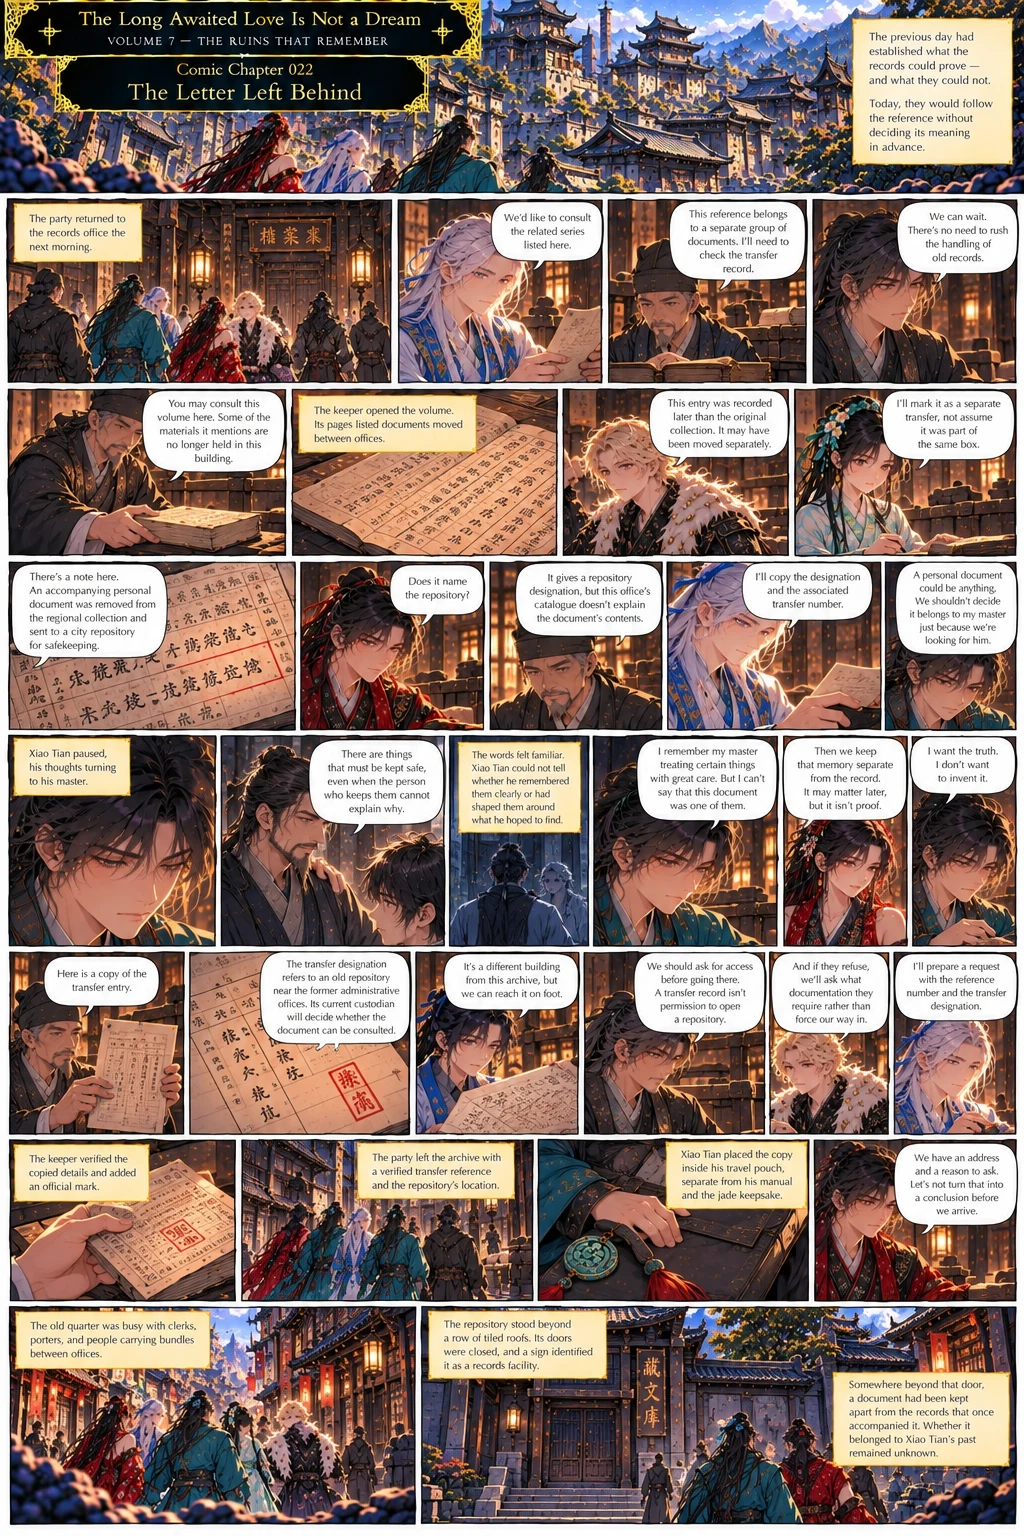
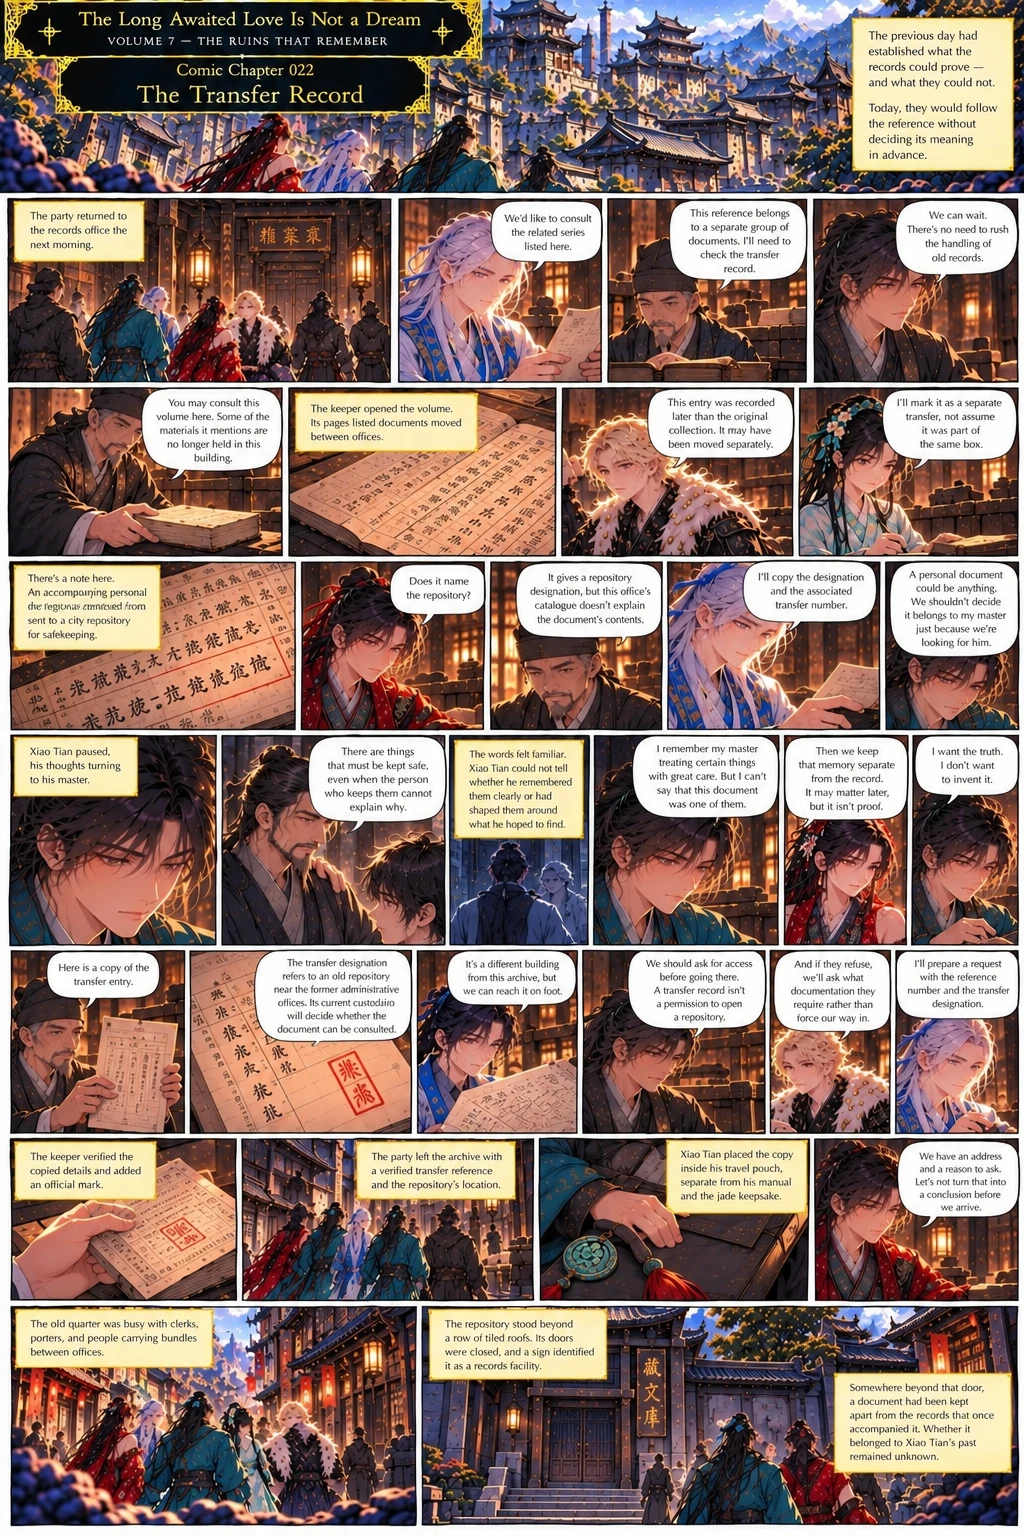
Volume 7: regenerated comic 020, renamed 022 (The Transfer Record) and 023 (The Letter Left Behind)
Claude-Session: https://claude.ai/code/session_01XEYzSJa6dBuS74MycM45Hs

diff --git a/scripts/chapters.js b/scripts/chapters.js
@@ -926,18 +926,18 @@ const CHAPTER_DESIGN = {
   events:['The records office and its rule: register first, consult tomorrow.','An inn for the night; Hoko jokes about broken windows.','Xiao Tian: "I don\'t want to turn every ordinary thing into a sign."','Moonlight over the quiet records building.'],
   chars:['xiyu','dongyue','cangyuan','xining','xiaotian','yaxing','hoko','yanwatcher'], intro:[], unlocks:['Story: a night in the city']},
  257:{title:'The Hidden Address', book:'—', loc:'The lower storage rooms of the records office',
-  sum:'VOLUME 7, COMIC 020. Morning brought no new answers; it brought permission to begin looking. The party arrives at the old administrative quarter shortly after sunrise. The clerk: "Your request has been recorded. Follow me, and please leave the documents in their original order." In the lower storage rooms Xiao Yan: "The arrangement is orderly, but it will take time to understand." Cangyuan: "We work from the inventory first. No moving bundles without recording where they came from." The next morning they begin the consultation. Hoko: "These are tax records. That group concerns river boundaries. The road registers should be farther along." Dongyue: "I\'ll keep a list of what we\'ve examined so we don\'t repeat the same work." Xiao Yan: "This section matches the description from the city archives. It\'s heavier than it looks. The contents should stay flat while we sort them." Inside are several old road registers, folded maps and lists of boundary revisions; the past had not been preserved as a single story but divided into boxes, labels and years of routine paperwork. Cangyuan: "This one records changes to the mountain districts. It may include names that no longer appear on modern maps. Careful. The paper is brittle. We shouldn\'t force the pages flat." Then: "Jinghe." Cangyuan: "This confirms that Jinghe was recorded in the regional register. It doesn\'t tell us whether it was the destination your master intended." Xiao Tian: "At least we know the name existed. That\'s enough for now." The entry is incomplete: a cross-reference to a document number and a storage designation remain legible. Xiao Yan: "We\'ve found a real record, not an answer. That distinction matters." "I know. I\'d rather have one reliable step than ten guesses." The records keeper goes to locate the referenced series while the party waits at the table. For the first time, Jinghe was more than a phrase carried out of a dream: it was a name preserved in the records. What it meant to Xiao Tian\'s past remained unknown.',
-  events:['Permission to begin looking.','Jinghe appears in an old regional register.','An incomplete cross-reference to another series.','"A real record, not an answer."'],
-  chars:['xiyu','dongyue','cangyuan','xining','xiaotian','yaxing','hoko','yanwatcher'], intro:[], unlocks:['Story: Jinghe is a real name in the old register']},
+  sum:'VOLUME 7, COMIC 020 (regenerated). The next morning the party begins examining the regional records; they need to find the address, route or destination that may lie behind the estate\'s missing pages. At first light they return to the archive: the lower records room is opened and the materials prepared. "These are the regional road registers, boundary revisions, and transport records from that period. Please handle them with care. Some of the pages are very old." Cangyuan: "Let\'s compare the old routes with the surviving boundary records. We should preserve the order of each entry." Dongyue: "I\'ll record the references so we can return to anything that needs further checking." Xiyu: "We need to look for transport requests, dispatched documents, and any records of special consignments." Hoko: "The roads may have changed over time. We should check older boundary maps to understand the context." Xiao Yan: "And compare the place names. Some may have used different names in older records." They begin with the road registers. "Here. This section matches the time period." There was an entry for Jinghe: it was recorded as a town along the western route, an important stop for trade and transport. Cangyuan: "The spelling is consistent with other entries from this period." Xiao Tian: "But this only confirms that Jinghe existed as a place name. It doesn\'t tell us whether it was the destination my master intended." The records keeper: "Place names were often reused, and routes changed over the years. This entry only shows that a record related to Jinghe was made." They compare the entry with older boundary maps; the location matches an important river route connecting several mountain regions. Xining notes there are also records of transport convoys and official dispatches passing through Jinghe. Hoko: "Some of them were administrative, not private requests. We can\'t assume it refers to the same matter yet." Cangyuan: "We should check the dispatch ledger next. It may record where documents or copies were sent from this region." Xiyu: "Agreed. This is a lead, but not the answer. We need more records before we can conclude anything." They record the related references: the Dispatch Ledger (Western Route), administrative correspondence, river transport records and boundary revisions. "Then this is our next step. We follow the dispatch ledger and see where the copied record was sent." Jinghe was only a name on paper for now, but it brought them closer to the truth.',
+  events:['The regional registers, opened at first light.','Jinghe: a town on the western route.','"It doesn\'t tell us whether it was the destination my master intended."','Next step: the dispatch ledger.'],
+  chars:['xiyu','dongyue','cangyuan','xining','xiaotian','yaxing','hoko','yanwatcher'], intro:[], unlocks:['Story: Jinghe, a town on the western route']},
  258:{title:'The Master\'s Birthday', book:'—', loc:'The records office and its courtyard',
   sum:'VOLUME 7, COMIC 021. A reference could lead to another record; it could not promise what that record would contain. The party waits at the long reading table while the records keeper searches the lower shelves. Cangyuan: "We should keep the original wording separate from our interpretations." Xiao Yan: "That will save us from mistaking an assumption for a fact." The keeper finds the referenced series; some pages are missing, but the volume can be consulted. Its pages list transfers, administrative changes and records moved between regional offices: "Transfers, boundary revisions, retired offices... nothing here is a personal account." Xiao Tian remembers the command more clearly than the place it concerned: "There is something I need you to retrieve. You must go alone." The place and the date remain incomplete: "I remember being told to go. I can\'t remember the exact date or what the place was called." Xiyu: "Then we shouldn\'t ask your memory to supply what it cannot. We can work with what you know." Cangyuan: "The register gives us historical context. Your memory gives us a separate lead. They may connect, but we haven\'t proved that yet." During a short break in the courtyard Dongyue asks about his master\'s birthday. "I remember that we marked it. I\'m not sure I remember the date correctly." "Then we leave it there until you\'re certain." Back at the table the volume is consulted: Jinghe appears in an old regional register, with a cross-reference to another series; its purpose is not established. "Good. If the evidence changes, we can revise our conclusions without losing track of what was actually written." The keeper: "If you need to consult another volume, submit the next reference through the front desk." That evening: "We have more to do. At least now I know what we haven\'t established." The master\'s birthday remained a fragment of memory, not a key. The records had offered context, not certainty; the next step would have to be earned.',
   events:['A volume with missing pages and no personal account.','"I remember being told to go. I can\'t remember the exact date."','His master\'s birthday: a fragment, not a key.','Dongyue: "If the evidence changes, we can revise our conclusions."'],
   chars:['xiyu','dongyue','cangyuan','xining','xiaotian','yaxing','hoko','yanwatcher'], intro:[], unlocks:['Story: a memory of his master\'s birthday']},
- 259:{title:'The Letter Left Behind', book:'—', loc:'The records office and a city repository',
+ 259:{title:'The Transfer Record', book:'—', loc:'The records office and a city repository',
   sum:'VOLUME 7, COMIC 022. The previous day had established what the records could prove, and what they could not; today they would follow the reference without deciding its meaning in advance. The party returns to the records office. Cangyuan asks to consult the related series. The keeper opens the volume; some materials it mentions are no longer held in this building. Hoko: "This entry was recorded later than the original collection. It may have been moved separately." Dongyue: "I\'ll mark it as a separate transfer, not assume it was part of the same box." A note records that an accompanying personal document was removed from the regional collection and sent to a city repository for safekeeping. "Does it name the repository?" "It gives a repository designation, but this office\'s catalogue doesn\'t explain the document\'s contents." Xiao Yan: "A personal document could be anything. We shouldn\'t decide it belongs to my master just because we\'re looking for him." Xiao Tian recalls his master: "There are things that must be kept safe, even when the person who keeps them cannot explain why." The words feel familiar, but he cannot tell whether he remembered them clearly or shaped them around what he hoped to find. "I remember my master treating certain things with great care. But I can\'t say that this document was one of them." Cangyuan: "Then we keep that memory separate from the record. It may matter later, but it isn\'t proof." "I want the truth. I don\'t want to invent it." The keeper provides a copy of the transfer entry and an official mark; the designation refers to an old repository near the former administrative offices, whose custodian will decide whether the document can be consulted. Xiao Yan: "A transfer record isn\'t permission to open a repository." Hoko: "And if they refuse, we\'ll ask what documentation they require rather than force our way in." Xiao Tian places the copy in his travel pouch, separate from his manual and the jade keepsake. The repository stands beyond a row of tiled roofs, its doors closed, a sign identifying it as a records facility. Somewhere beyond that door, a document had been kept apart from the records that once accompanied it. Whether it belonged to Xiao Tian\'s past remained unknown.',
   events:['A personal document sent to a city repository.','"I want the truth. I don\'t want to invent it."','The copy of the transfer entry in his travel pouch.','The repository door, still closed.'],
   chars:['xiyu','dongyue','cangyuan','xining','xiaotian','yaxing','hoko','yanwatcher'], intro:[], unlocks:['Story: the repository in the old quarter']},
- 260:{title:'The Secret He Died to Keep', book:'—', loc:'The records repository',
+ 260:{title:'The Letter Left Behind', book:'—', loc:'The records repository',
   sum:'VOLUME 7, COMIC 023. The document had been separated from the records that once accompanied it; before they could learn why, they had to establish what had actually survived. The party arrives at the repository and the custodian confirms that a personal document was transferred there. Cangyuan: "We understand. We won\'t ask you to bypass the repository\'s rules." The custodian: "This is the document associated with that transfer number. The accompanying register identifies it as a private letter. The seal is old, but the custody record is intact." Xiao Tian: "That hand... I\'ve seen it before." "Can you identify it with confidence?" "I can\'t be certain from this alone. But the strokes resemble my master\'s writing." "There is no record here of its contents." Xiao Tian had spent months trying to recover the past; now it rested within reach, and he feared what it might ask of him. Xining: "You don\'t have to read it all at once." "If it is his letter, I need to hear what he wanted to say." The custodian records the opening in the ledger and carefully releases the old fastening. "This is his writing." The letter: "If this reaches you after the estate has fallen silent, do not mistake silence for proof that everything has been lost. What they sought was not valuable because of its price. It was dangerous because of what it could prove. Do not pursue the first face you remember. Find the records of the search first. A face may deceive you; a record can be compared." Some lines are damaged by age and the identity of the person or group involved is not named. A brief, incomplete memory flashes through Xiao Tian\'s mind: a masked figure with a headband in the dark; it is not yet enough to name a person. Dongyue: "So the damage wasn\'t random." Xiyu: "It supports what we saw at the estate. It doesn\'t tell us who gave the order." Xiao Tian: "He wanted me to find out what they were searching for before I chased the people who did it." Cangyuan: "Perhaps he feared the letter would be found. Or perhaps he thought you would understand more when you were ready. We can\'t know which." Hoko: "The letter gives us a method: find records of the search, compare dates, and look for people who had access." Xiao Yan: "We can start with the estate\'s missing inventory and the older district records. We shouldn\'t assume the same person handled every part of it." The original stays in the repository unless permission is obtained for another consultation. "Thank you. Whatever comes next, this gives me a reason to keep looking." Xiao Tian keeps the authorised copy of the relevant passages in a separate pouch, away from his manual and his jade keepsake. His master had left him neither a name to strike nor an easy answer. He had left him a way to begin.',
   events:['His master\'s seal and the old letter.','"Do not mistake silence for proof that everything has been lost."','"A face may deceive you; a record can be compared."','A masked figure with a headband flashes through his mind.'],
   chars:['xiyu','dongyue','cangyuan','xining','xiaotian','yaxing','hoko','yanwatcher'], intro:[], unlocks:['Story: his master\'s letter']},

diff --git a/sw.js b/sw.js
@@ -1,5 +1,5 @@
 /* Crimson Moon service worker: app shell cached for offline play; images/comics cached as you play. */
-const VERSION = 'crimson-moon-v58';
+const VERSION = 'crimson-moon-v59';
 const SHELL = ['./', './index.html', './styles.css', './manifest.webmanifest',
   './scripts/characters.js','./scripts/chapters.js','./scripts/script.js','./scripts/script_v2.js','./scripts/hooks.js','./scripts/bounties.js','./scripts/relations.js','./scripts/board.js','./scripts/rest.js','./scripts/herbal.js','./scripts/personal.js','./scripts/equip.js','./scripts/ledger.js','./scripts/seal.js','./scripts/people.js','./scripts/core.js','./scripts/enemies.js','./scripts/battle.js','./scripts/confrontation.js','./scripts/journal.js','./scripts/temple.js','./assets/maps/ice_temple.webp','./assets/maps/ice_temple_v4.webp','./assets/maps/ice_temple_lower_v4.webp','./assets/volume4_cover.webp','./assets/volume5_cover.webp','./assets/volume6_cover.webp',
   './scripts/savedata.js','./scripts/storypopup.js','./scripts/ui.js','./assets/splash.webp','./assets/volume1_cover.webp','./assets/icons/icon-192.png','./assets/icons/icon-512.png','./assets/icons/icon-maskable-192.png','./assets/icons/icon-maskable-512.png'];

diff --git a/scripts/hooks.js b/scripts/hooks.js
@@ -5099,8 +5099,8 @@ const HOOKS = {
 ],
 "257": [
 {
-"id": "jinghe_found_in_an_old_regional_register",
-"d": "Jinghe is recorded in an old regional register; the entry is incomplete and carries a cross-reference to another series, so it is a real name but not an answer",
+"id": "jinghe_recorded_as_a_town_on_the_western_route",
+"d": "Jinghe is recorded in the regional road register as a town on the western route, an important stop for trade and transport; the entry only shows the name existed, and the party is pointed to the dispatch ledger next",
 "t": "event",
 "p": false,
 "s": "art"

diff --git a/tools/build_hooks.py b/tools/build_hooks.py
@@ -86,7 +86,7 @@ V2H={
  254:[('party_reaches_a_village_and_hears_of_a_regional_records_office', 'In a village on the old road an elder half remembers the name Jinghe and points the party to the city and its regional records office', 'event')],
  255:[('city_archives_point_to_the_old_quarter_storage', 'The city archives have no current entry for Jinghe; the older regional collection was moved to storage in the old quarter and is open to public consultation', 'event')],
  256:[('records_office_requires_registration_first', "The records office registers the party's request and opens the lower shelves only the next day; the party rests at an inn", 'event')],
- 257:[('jinghe_found_in_an_old_regional_register', 'Jinghe is recorded in an old regional register; the entry is incomplete and carries a cross-reference to another series, so it is a real name but not an answer', 'event')],
+ 257:[('jinghe_recorded_as_a_town_on_the_western_route', 'Jinghe is recorded in the regional road register as a town on the western route, an important stop for trade and transport; the entry only shows the name existed, and the party is pointed to the dispatch ledger next', 'event')],
  258:[('masters_birthday_remembered_only_in_fragments', "Xiao Tian remembers marking his master's birthday but not the date; the referenced volume is historical context, not a personal account", 'event')],
  259:[('personal_document_sent_to_a_city_repository', "A personal document was removed from the regional collection and sent to a city repository; the party obtains a verified transfer reference and the repository's location", 'event')],
  260:[('masters_sealed_letter_found_in_the_repository', 'Xiao Tian reads his master\'s sealed letter: the attackers searched for something dangerous because of what it could prove; "Do not pursue the first face you remember. Find the records of the search first."', 'event'), ('masked_figure_with_a_headband_flashes_in_memory', "A masked figure with a headband flashes through Xiao Tian's memory; not yet enough to name anyone", 'event')],

diff --git a/docs/VOLUME2.md b/docs/VOLUME2.md
@@ -392,3 +392,8 @@ Keep 008-010 and 015 as the canonical versions; replace the old 011-014 in seque
 - 017 The Road to the City · 018 A Clue in the Records · 019 The City in the Distance · 020 The Hidden Address · 021 The Master's Birthday · 022 The Letter Left Behind · 023 The Secret He Died to Keep · 024 The Missing Page. (Files are named by comic number; the story order is 021, 022, 023, 024.)
 - **No clue investigation is built.** These chapters are an archive search, but the game carries only the story text, key events and story hooks. No journal clue rows, questions, seal-page entries, quests or archive mini-game were added; the "Opens" lines read "Story: ...". The V7 hooks remain internal story flags only (verified: none appear on the Seal page).
 - **Inconsistencies for the author:** (1) **020 repeats 019**: after its header it replays the same records-office scene (the clerk's rule, "Will there be enough time to begin today?", the visit being recorded, "lower rooms would remain unopened until morning") before "The next morning, they began the consultation". The game text skips the repeat. (2) 023's title ("The Secret He Died to Keep") says his master died, but no page confirms it; the game text does not state it. (3) 021's title (the master's birthday) covers only two short panels; the birthday itself is a fragment.
+
+## Volume 7 comics 020, 022 and 023 updated (chapters 257, 259, 260)
+- 019 kept. 020 regenerated (no repeat of 019; Jinghe is recorded as a town on the western route, with related references to the dispatch ledger, correspondence, river transport records and boundary revisions). Game text and the Jinghe hook rewritten to match.
+- Titles: 022 is now **The Transfer Record** (chapter 259); 023 is now **The Letter Left Behind** (chapter 260). The earlier note that 020 repeats 019 and that 023's title implied the master's death is resolved.
+- **For the author:** the new 020 header says they must find the address "hidden within the estate's missing pages", but the missing pages are only discovered in 024. Consider changing that line (e.g. "hidden within the old records").
